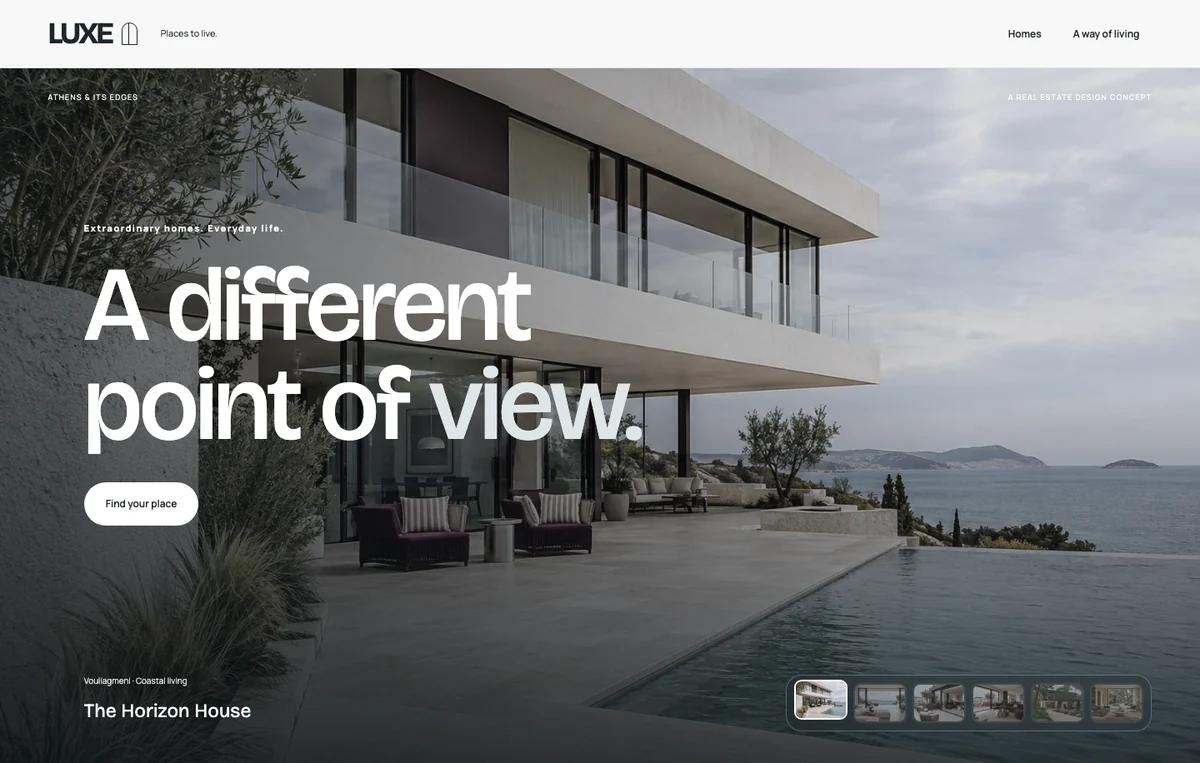
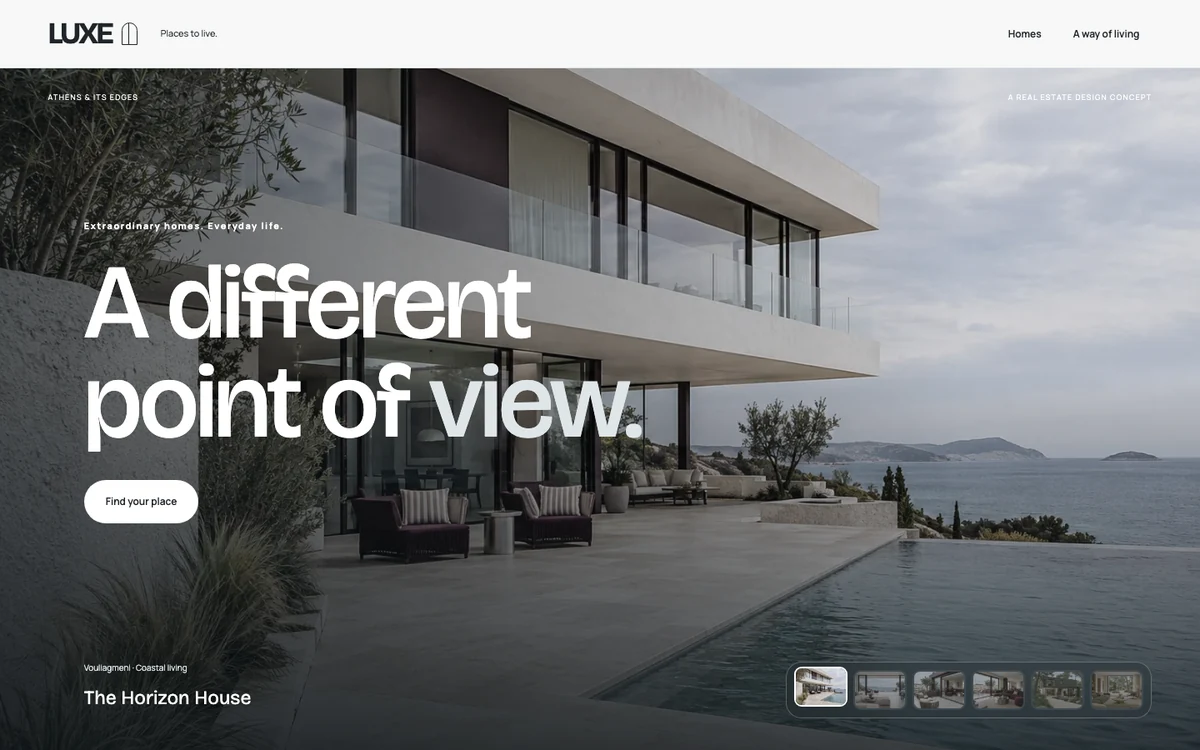
Unify demo card sizes with full-bleed composed covers

diff --git a/client/src/components/DemoPreviewArtwork.css b/client/src/components/DemoPreviewArtwork.css
@@ -1,5 +1,6 @@
 .demo-cover {
   width: 100%;
+  aspect-ratio: 8 / 5;
   margin: 0;
   padding: 0;
   overflow: hidden;
@@ -7,8 +8,8 @@
 .demo-cover img {
   display: block;
   width: 100%;
-  height: auto;
-  object-fit: contain;
+  height: 100%;
+  object-fit: cover;
   object-position: center;
   filter: none;
 }
@@ -23,6 +24,7 @@
   align-items: center;
   justify-content: space-between;
   gap: 20px;
+  min-height: 132px;
   padding: 22px 0 25px;
 }
 .demo-project-caption h3 {
@@ -78,12 +80,21 @@
 .demo-home-link:hover .demo-home-action {
   color: #fff;
 }
+/* Equal rows accommodate the longest translated caption without clipping. */
+.grid:has(> div > .demo-home-card) {
+  grid-auto-rows: 1fr;
+}
+.demo-home-card {
+  height: 100%;
+}
 .demo-home-link {
-  display: block;
+  display: flex;
+  flex-direction: column;
   height: 100%;
   border-bottom: 1px solid rgb(184 191 255 / 24%);
 }
 .demo-home-caption {
+  flex: 1;
   display: flex;
   flex-wrap: wrap;
   align-items: center;
@@ -104,10 +115,11 @@
   font-size: 14px;
   margin-top: 3px;
 }
-@media (max-width: 639px) {
+@media (max-width: 1023px) {
   .demo-project-caption {
     display: grid;
     grid-template-columns: 1fr;
+    min-height: 148px;
     gap: 8px 18px;
     padding: 17px 0 20px;
   }

diff --git a/client/src/components/DemoPreviewArtwork.tsx b/client/src/components/DemoPreviewArtwork.tsx
@@ -1,16 +1,16 @@
 import "./DemoPreviewArtwork.css";
 
 const covers: Record<string, { height: number }> = {
-  hartley: { height: 766 },
-  "nomad-coffee": { height: 768 },
-  "bella-salon": { height: 916 },
-  "dr-elara-dental": { height: 856 },
-  "pulse-gym": { height: 960 },
-  "arcos-architecture": { height: 1189 },
-  "luxe-realty": { height: 916 },
+  hartley: { height: 900 },
+  "nomad-coffee": { height: 900 },
+  "bella-salon": { height: 900 },
+  "dr-elara-dental": { height: 900 },
+  "pulse-gym": { height: 900 },
+  "arcos-architecture": { height: 900 },
+  "luxe-realty": { height: 900 },
 };
 
-/** Complete captures of the real demos, displayed edge to edge without cropping their UI. */
+/** Consistently composed captures of the real demos, displayed edge to edge. */
 export default function DemoPreviewArtwork({ id }: { id: string }) {
   const cover = covers[id];
   if (!cover) return null;

diff --git a/docs/examples-refresh/demo-cover-presentation.md b/docs/examples-refresh/demo-cover-presentation.md
@@ -2,7 +2,7 @@
 
 9 October 2026. Approved Hartley changes released to main at 14a6c285ff0f5803a29b6a28b3bd3f16fd474547. This subsequent cover presentation is for Preview review only.
 
-Seven complete header-and-hero captures replace the fixed-height crops and obsolete Bella/Pulse mockups. Shared DemoPreviewArtwork shows each screenshot edge to edge at its natural aspect ratio, without a coloured mat, image padding or cropped UI. Responsive 720/1200px WebP sources, explicit intrinsic dimensions, lazy loading and no live thumbnail iframes. All fourteen derivatives together are approximately 820KB; each card loads one appropriate source.
+Seven complete header-and-hero captures replace the fixed-height crops and obsolete Bella/Pulse mockups. Shared DemoPreviewArtwork shows each screenshot edge to edge at its natural aspect ratio, without a coloured mat, image padding or cropped UI. Responsive 720/1200px WebP sources, explicit intrinsic dimensions, lazy loading and no live thumbnail iframes. All fourteen derivatives together are approximately 737KB; each card loads one appropriate source.
 
 Our Work shows two columns on larger screens, one on phones. Captions contain the project name, a short description and an underlined action. A real button extends over each cover for whole-card pointer access and native Enter/Space interaction. The custom-build invitation follows the actual work. Homepage examples and detail modals share the same cover component across EN/EL/HE. Existing URLs, industry filters and return-position handling are retained. Bella's summary now matches the actual monochrome editorial design. Hover feedback stays on the action text; screenshots remain stationary so their edges stay flush and their content stays complete.
 
@@ -11,3 +11,5 @@ QA: TypeScript; 26 targeted unit tests for gallery navigation, return state, edi
 Sources: client/public/media/examples/covers/SOURCES.txt. Original captures: ../output/demo-covers. Unrelated local Arcos changes are excluded.
 
 Review refinement: removed the coloured framing and uniform image ratio. Full-bleed imagery now fills each cover naturally across the homepage, Our Work and detail modals.
+
+Equal-size refinement: recaptured all seven real demos onto an 8:5 canvas with capture-only hero composition. No letterboxing, decorative mat or image distortion. The shared cover uses the same ratio everywhere; caption space accommodates translated labels, and homepage grid rows equalize to the tallest card. The interactive demo pages themselves are unchanged.
